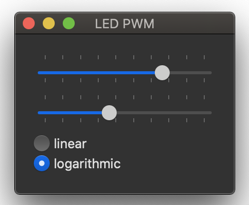
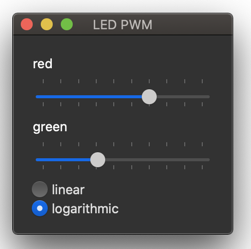
added labels to the sliders

diff --git a/Pmod 5LED 3Buttons/pmod_ledbtn2.py b/Pmod 5LED 3Buttons/pmod_ledbtn2.py
@@ -18,6 +18,9 @@ class Example(QWidget):
 
         layout = QVBoxLayout()
 
+        self.label1 = QLabel("red")
+        layout.addWidget(self.label1)
+
         self.slider1 = QSlider(Qt.Horizontal)
         self.slider1.setFocusPolicy(Qt.StrongFocus)
         self.slider1.setTickPosition(QSlider.TicksBothSides)
@@ -25,6 +28,9 @@ class Example(QWidget):
         self.slider1.setSingleStep(1)
         self.slider1.valueChanged.connect(self.setvalue1)
         layout.addWidget(self.slider1)
+
+        self.label2 = QLabel("green")
+        layout.addWidget(self.label2)
 
         self.slider2 = QSlider(Qt.Horizontal)
         self.slider2.setFocusPolicy(Qt.StrongFocus)
